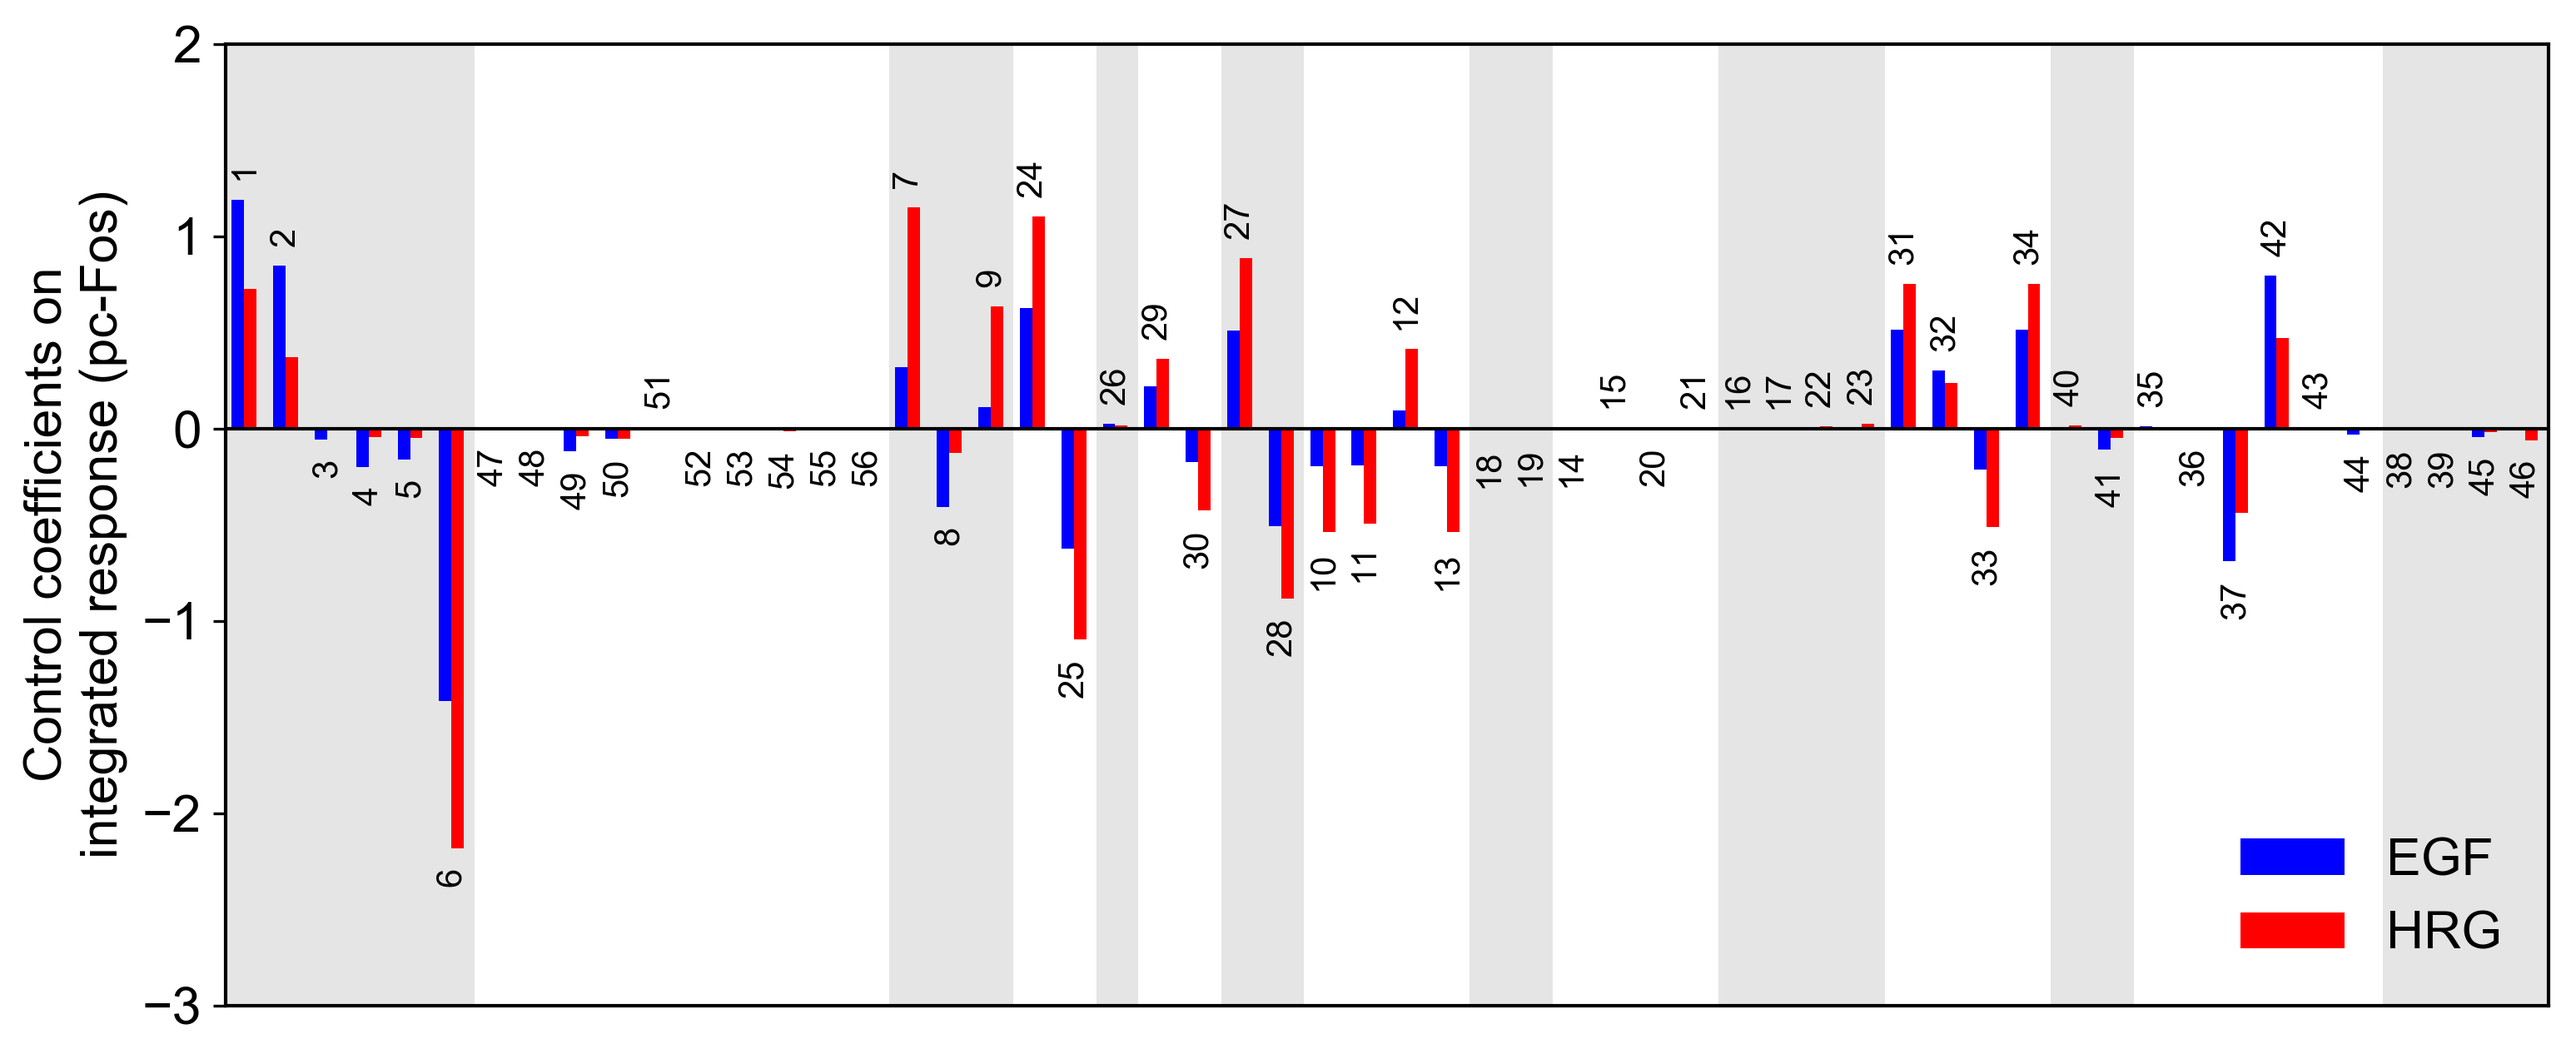
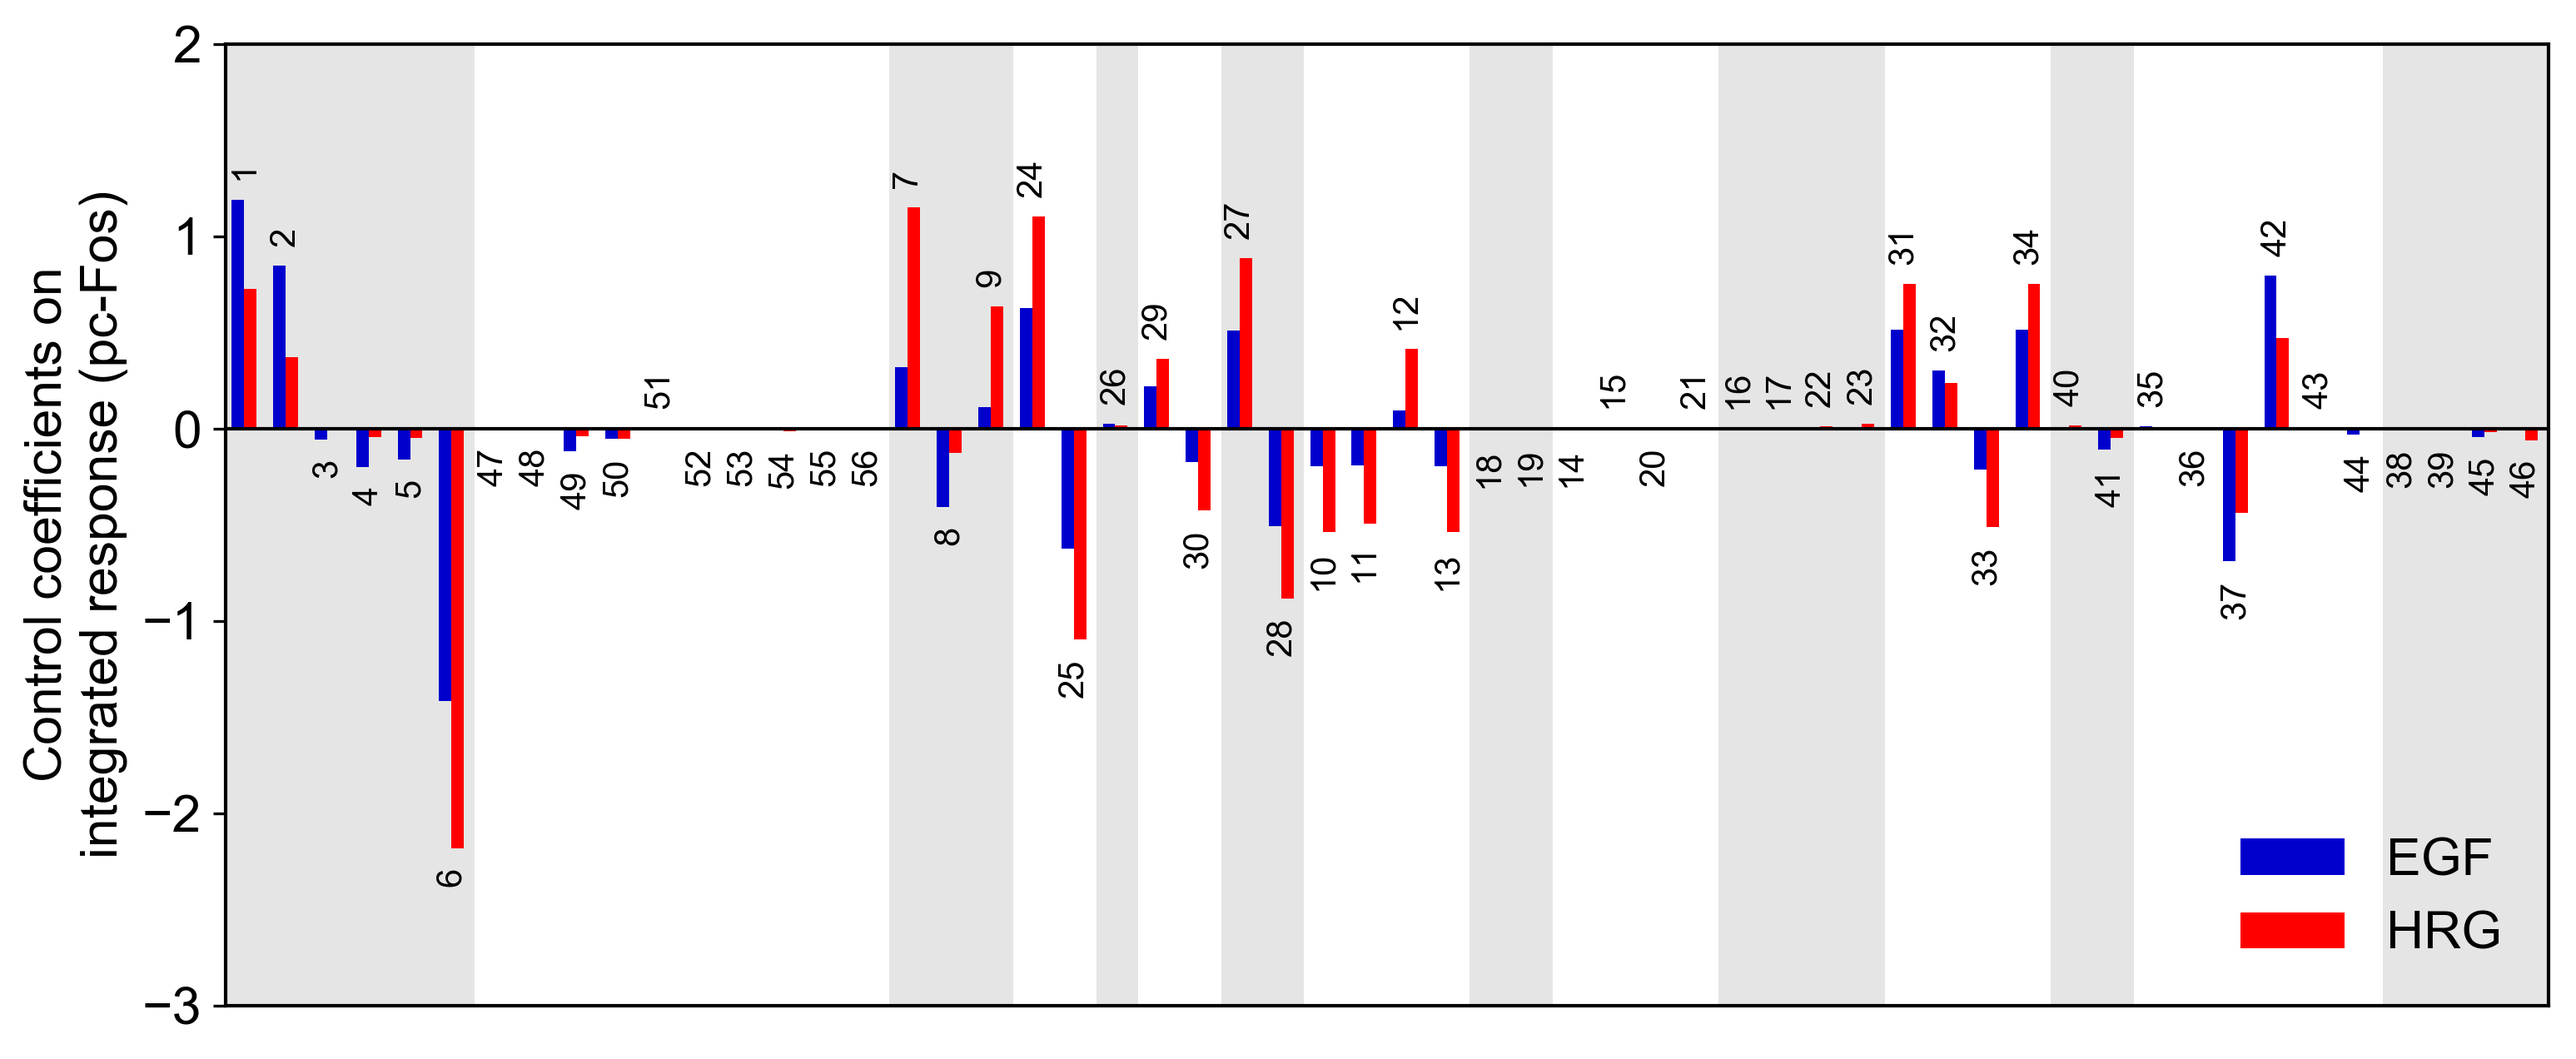
Change color

diff --git a/sensitivity_analysis/barplot.py b/sensitivity_analysis/barplot.py
@@ -45,9 +45,9 @@ def visualize_sensitivity():
     draw_vertical_span(reaction_module,num_reaction,width)
     plt.hlines([0],-width,num_reaction-1-width,'k',lw=1)
     plt.bar(np.arange(num_reaction),s_cFosmRNA[0,sort_idx],
-            width=width,color='b',align='center',label='EGF')
+            width=width,color='mediumblue',align='center',label='EGF')
     plt.bar(np.arange(num_reaction)+width,s_cFosmRNA[1,sort_idx],
-            width=width,color='r',align='center',label='HRG')
+            width=width,color='red',align='center',label='HRG')
 
     for i,j in enumerate(sort_idx):
         if j != 0:
@@ -81,9 +81,9 @@ def visualize_sensitivity():
     draw_vertical_span(reaction_module,num_reaction,width)
     plt.hlines([0],-width,num_reaction-1-width,'k',lw=1)
     plt.bar(np.arange(num_reaction),s_PcFos[0,sort_idx],
-            width=width,color='b',align='center',label='EGF')
+            width=width,color='mediumblue',align='center',label='EGF')
     plt.bar(np.arange(num_reaction)+width,s_PcFos[1,sort_idx],
-            width=width,color='r',align='center',label='HRG')
+            width=width,color='red',align='center',label='HRG')
 
     for i,j in enumerate(sort_idx):
         if j != 0:
